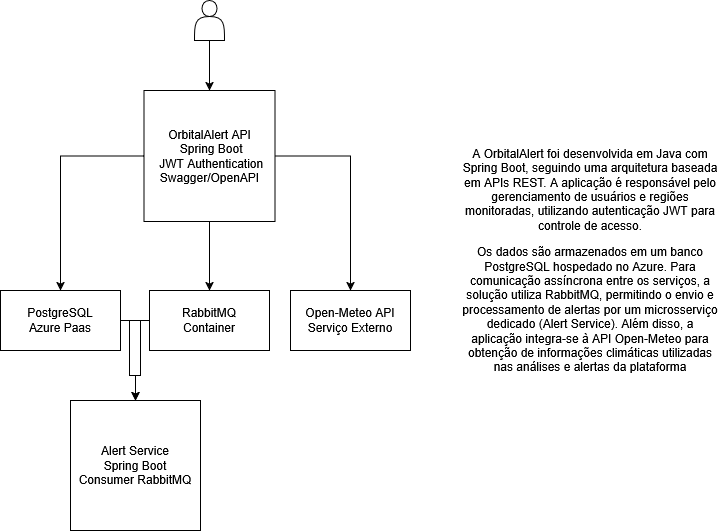
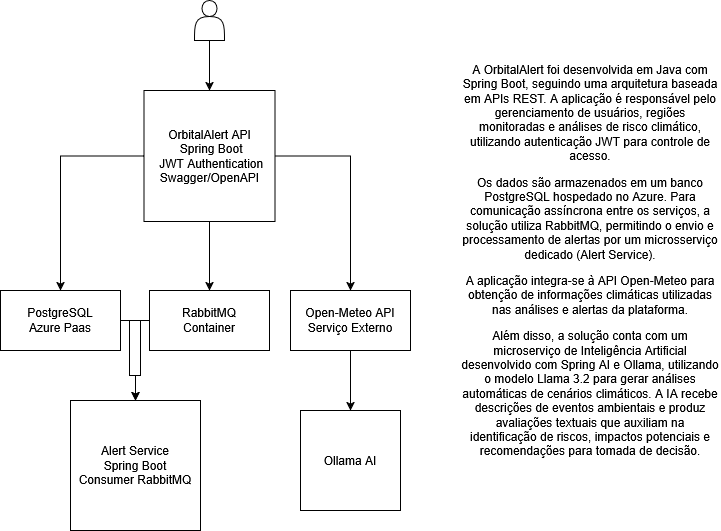
feat: integração Spring AI com Ollama

Changed region(s): [[0.6408, 0.1205, 1.0, 0.8738], [0.4577, 0.8437, 0.5187, 0.8738], [0.4577, 0.7533, 0.4882, 0.7834]]

diff --git a/src/main/java/com/orbitalert/api/controller/AiController.java b/src/main/java/com/orbitalert/api/controller/AiController.java
@@ -1,0 +1,23 @@
+package com.orbitalert.api.controller;
+
+import com.orbitalert.api.service.AiService;
+import org.springframework.web.bind.annotation.GetMapping;
+import org.springframework.web.bind.annotation.RequestParam;
+import org.springframework.web.bind.annotation.RestController;
+
+@RestController
+public class AiController {
+
+    private final AiService aiService;
+
+    public AiController(AiService aiService) {
+        this.aiService = aiService;
+    }
+
+    @GetMapping("/ia")
+    public String perguntar(
+            @RequestParam String pergunta
+    ) {
+        return aiService.perguntar(pergunta);
+    }
+}

diff --git a/src/main/java/com/orbitalert/api/service/AiService.java b/src/main/java/com/orbitalert/api/service/AiService.java
@@ -1,0 +1,22 @@
+package com.orbitalert.api.service;
+
+import org.springframework.ai.chat.client.ChatClient;
+import org.springframework.stereotype.Service;
+
+@Service
+public class AiService {
+
+    private final ChatClient chatClient;
+
+    public AiService(ChatClient.Builder builder) {
+        this.chatClient = builder.build();
+    }
+
+    public String perguntar(String pergunta) {
+
+        return chatClient.prompt()
+                .user(pergunta)
+                .call()
+                .content();
+    }
+}

diff --git a/src/main/java/com/orbitalert/api/dto/IAResponseDTO.java b/src/main/java/com/orbitalert/api/dto/IAResponseDTO.java
@@ -1,0 +1,18 @@
+package com.orbitalert.api.dto;
+
+public class IAResponseDTO {
+
+    private String resposta;
+
+    public IAResponseDTO(String resposta) {
+        this.resposta = resposta;
+    }
+
+    public String getResposta() {
+        return resposta;
+    }
+
+    public void setResposta(String resposta) {
+        this.resposta = resposta;
+    }
+}

diff --git a/src/main/java/com/orbitalert/api/dto/IARequestDTO.java b/src/main/java/com/orbitalert/api/dto/IARequestDTO.java
@@ -1,0 +1,14 @@
+package com.orbitalert.api.dto;
+
+public class IARequestDTO {
+
+    private String pergunta;
+
+    public String getPergunta() {
+        return pergunta;
+    }
+
+    public void setPergunta(String pergunta) {
+        this.pergunta = pergunta;
+    }
+}

diff --git a/README.md b/README.md
@@ -33,6 +33,26 @@ O OrbitalAlert é uma plataforma baseada em Spring Boot que permite:
 * Implantação automatizada em nuvem Azure
 
 ---
+## Inteligência Artificial
+
+O projeto possui um microserviço de IA desenvolvido com Spring AI e Ollama.
+
+Repositório:
+
+https://github.com/AnderKamada/OrbitaLAlert-AI
+
+Foi desenvolvido um microserviço independente utilizando Spring AI e Ollama para análise de riscos climáticos.
+
+Tecnologias:
+
+- Spring AI
+- Ollama
+- Llama 3.2
+
+Endpoint:
+
+POST /ia/analisar
+--- 
 
 # Tecnologias Utilizadas
 